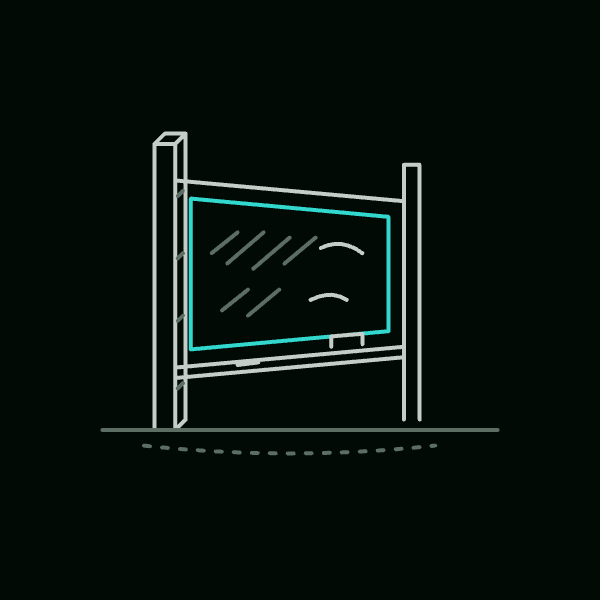
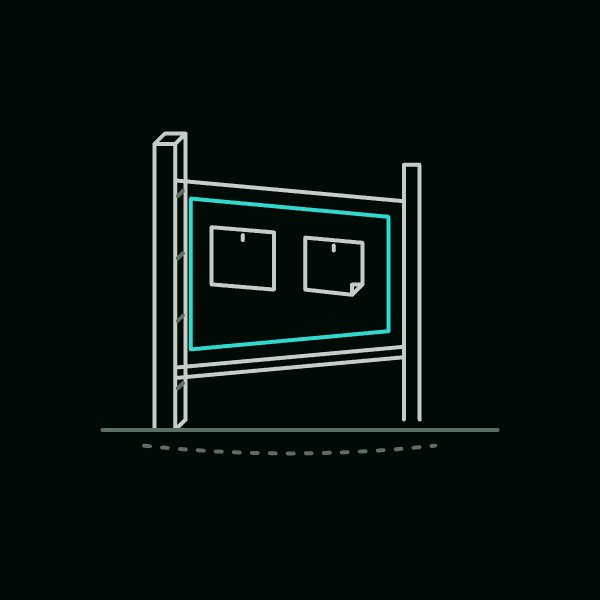
fix(art): draw Doli's message board and keep Komugi's last game as it was
Review round 1: the chalk, duster and smears on Doli's board had no
source, so it is now a message board with two blank notices. Komugi's
death keeps the first drawing's board and stack, with the two pieces
beside it. Kite's toy-sword stage keeps its chapter source.

Changed region(s): [[0.33, 0.36, 0.63, 0.54], [0.54, 0.54, 0.63, 0.57], [0.39, 0.6, 0.42, 0.63]]

diff --git a/src/data/series/hunter-x-hunter/art/chimera-ant-phase-three.ts b/src/data/series/hunter-x-hunter/art/chimera-ant-phase-three.ts
@@ -481,27 +481,17 @@ export const CHIMERA_ANT_PHASE_THREE_DRAWINGS = {
 /** The phase's drawings that change with the story: Komugi's death. */
 export const chimeraAntPhaseThreeRedrawn: Redrawings = {
   komugi: [
-    // The same board with the game left as it was, the stack gone down to
-    // one piece, and two pieces lying on the floor beside it, one in tint:
-    // chapter 339 shows her dead beside the King with two gungi pieces by
-    // them, and episode 148 adapts it. No body and no hands are drawn.
+    // The same board with the game left as it was, and two pieces lying
+    // on the floor beside it: chapter 339 shows her dead beside the King
+    // with two gungi pieces by them, and episode 148 adapts it. No body
+    // and no hands are drawn.
     {
       episode: 148,
       chapter: 339,
       value: [
-        ...KOMUGI_BOARD,
-        {
-          d: 'M32 108 L79.4 130.9 M52 102 L70.4 110.9 M106.1 128.1 L110 130 M72 96 L78.1 98.9 M97.1 108.1 L104.9 111.9 M122 120.2 L130 124 M26.5 121 L70.5 107.8 M93.5 100.9 L106.5 97 M41 128 L75.4 117.7 M97 111.2 L105 108.8 M55.5 135 L79.5 127.8 M102.5 120.9 L109.9 118.7 M131.5 112.2 L135.5 111',
-          role: 'soft',
-        },
-        {
-          d: 'M95.8 103.8 L88.7 100.6 L78.8 100.6 L71.7 103.8 L71.7 108.2 L78.8 111.4 L88.7 111.4 L95.8 108.2 Z M71.7 108.2 V114.2 L78.8 117.4 H88.7 L95.8 114.2 V108.2 M78.8 111.4 V117.4 M88.7 111.4 V117.4',
-          role: 'soft',
-        },
-        ...KOMUGI_PIECES,
+        ...CHIMERA_ANT_PHASE_THREE_DRAWINGS.komugi.slice(0, -1),
         {
           d: 'M46 157.8 L39 154.6 L29 154.6 L22 157.8 L22 162.2 L29 165.4 L39 165.4 L46 162.2 Z M22 162.2 V168.2 L29 171.4 H39 L46 168.2 V162.2 M29 165.4 V171.4 M39 165.4 V171.4',
-          role: 'accent',
         },
         {
           d: 'M140 158.8 L133 155.6 L123 155.6 L116 158.8 L116 163.2 L123 166.4 L133 166.4 L140 163.2 Z M116 163.2 V169.2 L123 172.4 H133 L140 169.2 V163.2 M123 166.4 V172.4 M133 166.4 V172.4',

diff --git a/src/data/series/hunter-x-hunter/art/chimera-ant-places.ts b/src/data/series/hunter-x-hunter/art/chimera-ant-places.ts
@@ -146,22 +146,18 @@ export const CHIMERA_ANT_PLACE_DRAWINGS = {
     { d: 'M8 150 H24 M136 150 H152', role: 'ambient' },
     shadow(80, 156, 58),
   ],
-  // The town's chalkboard hung between two posts, the slate in tint, the
-  // challenge rubbed out to smears, chalk and duster on the ledge: Killua
-  // reads the assassins' message on it in episode 85 / chapter 199, and
-  // finds it erased when Palm meets them there.
+  // The town's message board hung between two posts, its face in tint
+  // with two blank notices pinned to it and a rail beneath: Killua reads
+  // the assassins' message on it in chapter 199 / episode 85, and Gon and
+  // Killua agree to meet at it in chapter 217. No lettering is drawn.
   'doli-city': [
     { d: 'M24 150 V40 H32 V150 M120 146 V48 H126 V146' },
     { d: 'M24 40 L28 36 H36 L32 40 M36 36 V146 L32 150', role: 'soft' },
     { d: 'M32 54 L120 62 V118 L32 126 Z' },
     { d: 'M38 61 L114 68 V112 L38 119 Z', role: 'accent' },
-    {
-      d: 'M46 82 l10 -8 M52 86 l14 -12 M62 88 l14 -12 M74 86 l12 -10 M50 104 l10 -8 M60 106 l12 -10',
-      role: 'ambient',
-    },
-    { d: 'M88 80 Q96 76 104 82 M84 100 Q92 96 98 100', role: 'soft' },
+    { d: 'M46 72 L70 74 V96 L46 94 Z M58 75 V77', role: 'soft' },
+    { d: 'M82 76 L104 78 V94 L100 98 L82 96 Z M100 98 V94 H104 M93 79 V81' },
     { d: 'M32 126 L120 118 V122 L32 130' },
-    { d: 'M56 125 l8 -1 M92 118 V114 L104 113 V117', role: 'soft' },
     {
       d: 'M33 60 l2 -2 M33 84 l2 -2 M33 108 l2 -2 M33 134 l2 -2',
       role: 'ambient',

diff --git a/src/data/series/hunter-x-hunter/art/chimera-ant-phase-five.ts b/src/data/series/hunter-x-hunter/art/chimera-ant-phase-five.ts
@@ -130,6 +130,8 @@ export const chimeraAntPhaseFiveRedrawn: Redrawings = {
     {
       episode: 136,
       chapter: 316,
+      // Chapter 316 names the toy sword; the episode 136 synopsis does not.
+      source: 'chapter',
       value: [
         {
           d: 'M50 120 L106 50 Q112 44 120 42 Q120 50 114 58 L60 128',
